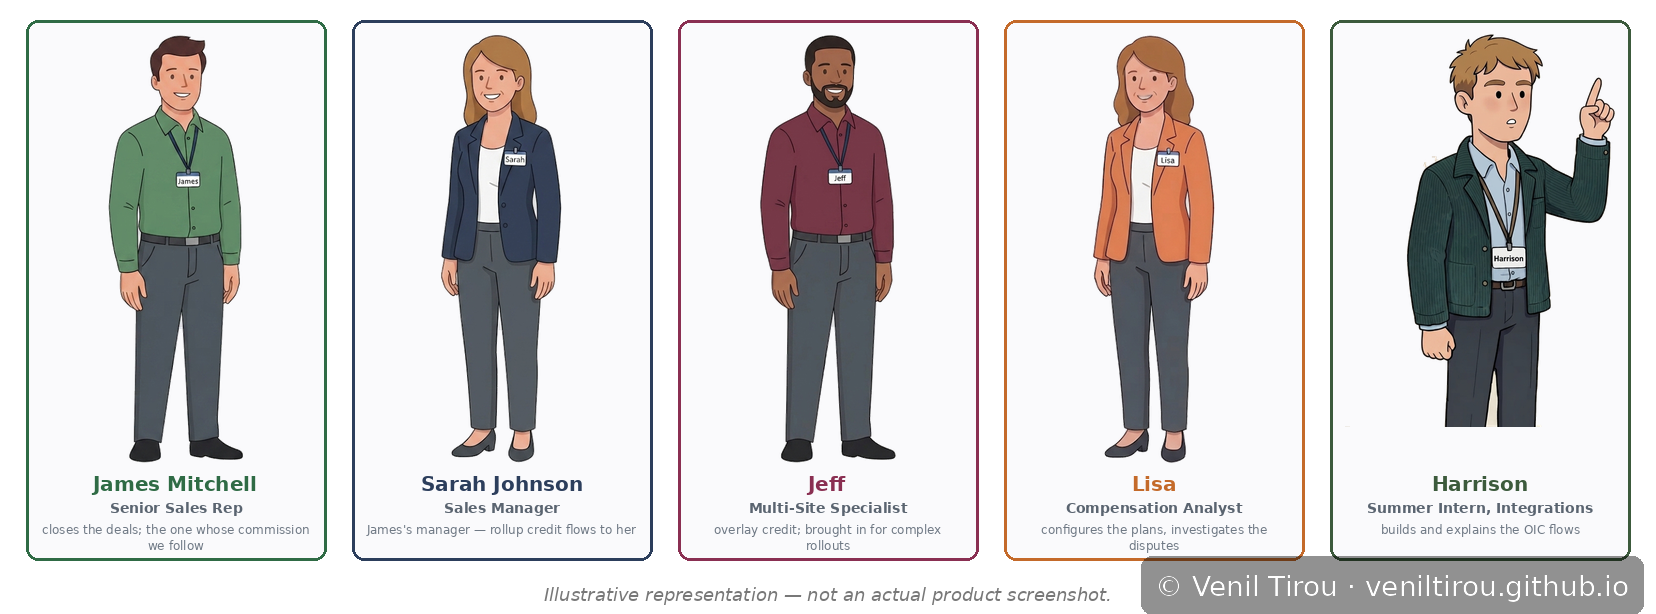
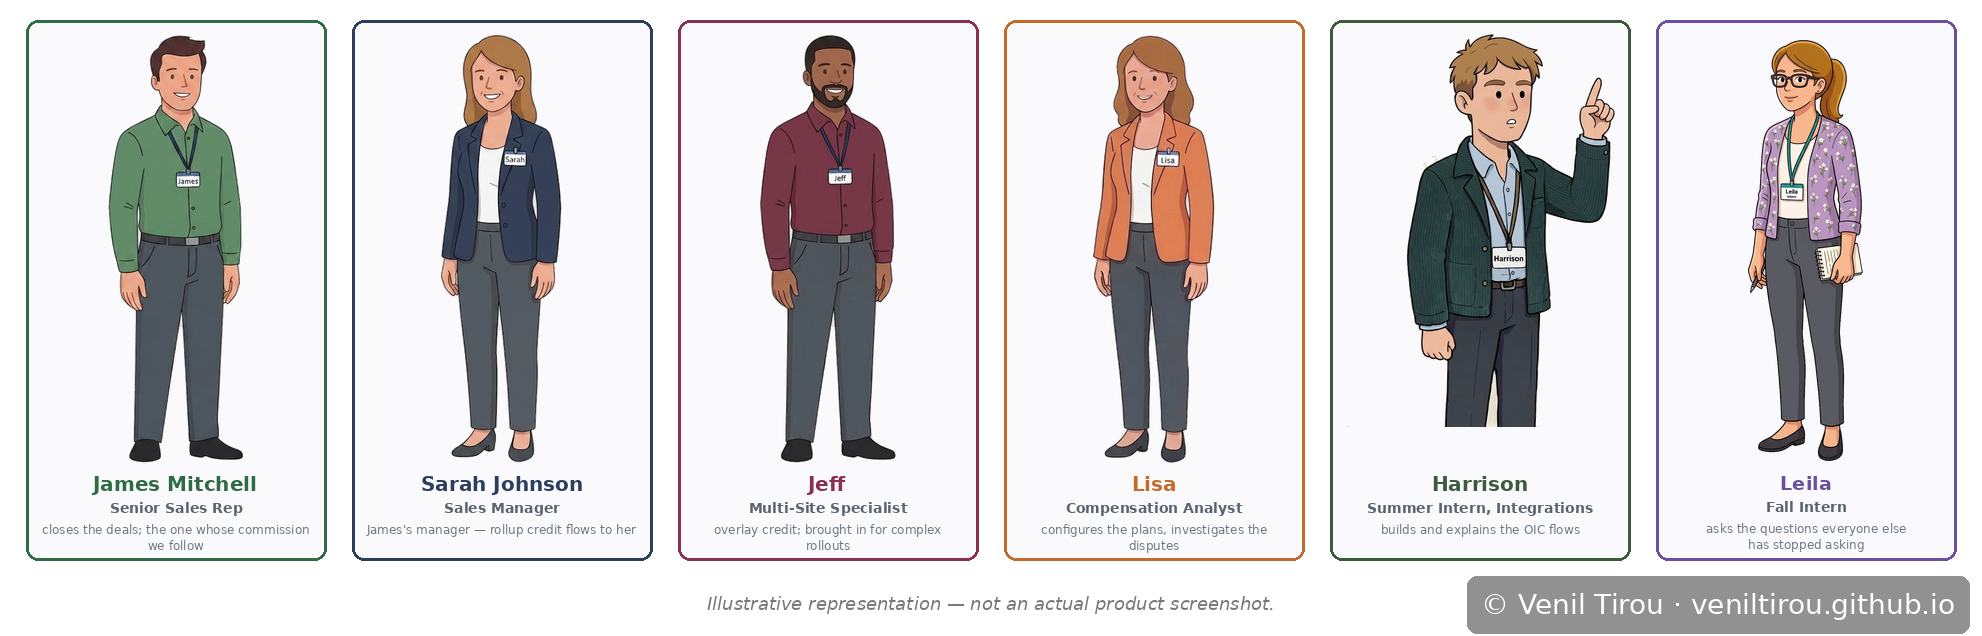
World of ABC Corporation: add Leila to the cast lineup
Adds a sixth card for Leila (Fall Intern) to abc-world/Scene01.png in the same
frame, fonts and figure scale as the other five, moves the copyright tag below the
cards so it no longer covers Lisa's and Harrison's card edges, and updates the alt
text. CHARACTERS.md: Leila (intern) is now locked, with the cast card as reference.

Claude-Session: https://claude.ai/code/session_01Kvy82NoR4anfb1iaqKvksC

diff --git a/abc-world/index.html b/abc-world/index.html
@@ -331,7 +331,7 @@
 
     <h2>The People</h2>
     <div class="storyboard">
-      <img src="Scene01.png" alt="The recurring cast: James Mitchell, Sarah Johnson, Jeff, Lisa and Harrison" />
+      <img src="Scene01.png" alt="The recurring cast: James Mitchell, Sarah Johnson, Jeff, Lisa, Harrison and Leila" />
       <p class="tip">📱 On mobile? Pinch to zoom to read the details clearly.</p>
       <div class="what-it-shows">
         <strong>Who you will keep meeting.</strong> <strong>James Mitchell</strong>

diff --git a/CHARACTERS.md b/CHARACTERS.md
@@ -53,7 +53,7 @@ below describe target state for new work, not a mandate to fix old work.
 | **Sarah** | ⚪ Free (does not appear in Friday Debrief) | *Frozen:* Incentive Compensation, OIC Integrations | No action needed now — she isn't in the chapter currently being touched. If she's written into a future new chapter, that's when she graduates to 🟡 Pending and gets a canonical pick, styled to match James's locked look. |
 | **Harrison** | ⚪ Free (one lineage, both frozen so far) | *Frozen:* OIC Integrations. *Active:* Friday Debrief | Both his appearances are within scope-frozen chapters as of this policy — Friday Debrief is being corrected for text/disclaimer issues but his design itself isn't being touched. Treat as a Rule 3 candidate the moment he's written into a chapter outside the OIC storyline. |
 | **Leila** | ⚪ Free | *Frozen:* OIC Integrations | Appeared once, in a frozen chapter. No obligation. |
-| **Leila (intern)** | ⚪ Free | *Active:* I4 Three Transactions, One Paycheck (Prologue) | Fall intern from a local Denver university, introduced October 2026: early twenties, glasses, ponytail, floral lavender cardigan, teal lanyard with "Leila – Intern" badge. A different person from Leila at Home, Sweet Home (OIC Integrations). Reference image: `ic-three-transactions/Prologue.png`. If she reappears, she graduates to 🟡 Pending. |
+| **Leila (intern)** | 🔒 Locked | *Active:* I4 Three Transactions, One Paycheck (Prologue); The World of ABC Corporation (cast lineup, sixth card) | Fall intern from a local Denver university, introduced October 2026 and added to the core cast: early twenties, honey-brown ponytail, dark rectangular glasses, lavender cardigan with small white flowers over a white top, dark grey trousers, dark flats, teal lanyard with a white badge. Locked because she is on the cast lineup, so every new chapter must match this design. Reference images: `abc-world/Scene01.png` (sixth card, standing) and `ic-three-transactions/Prologue.png` (seated, café). A different person from Leila at Home, Sweet Home (OIC Integrations). |
 
 ## Workflow going forward
 
